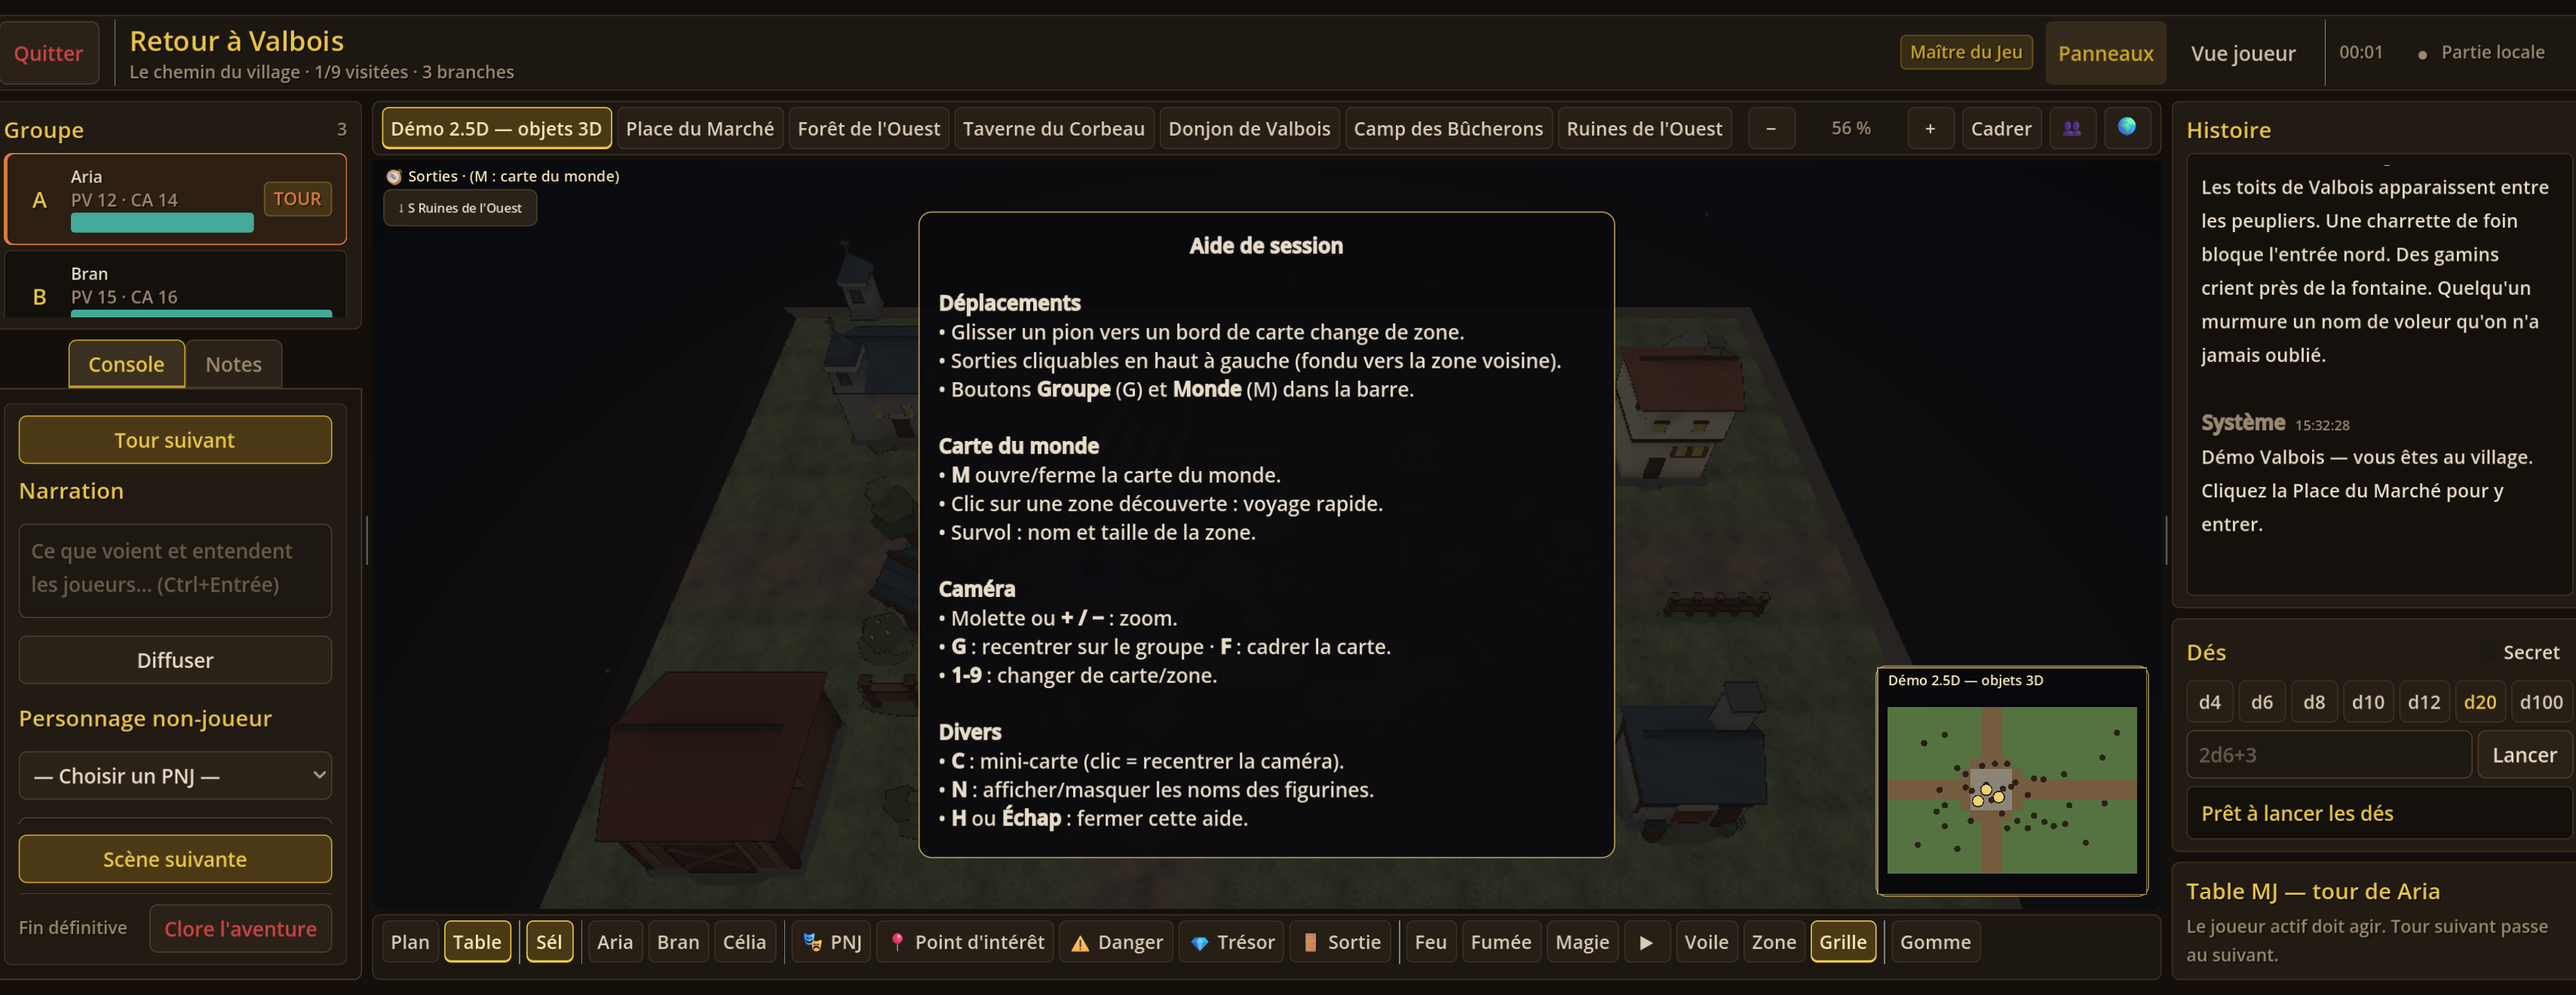
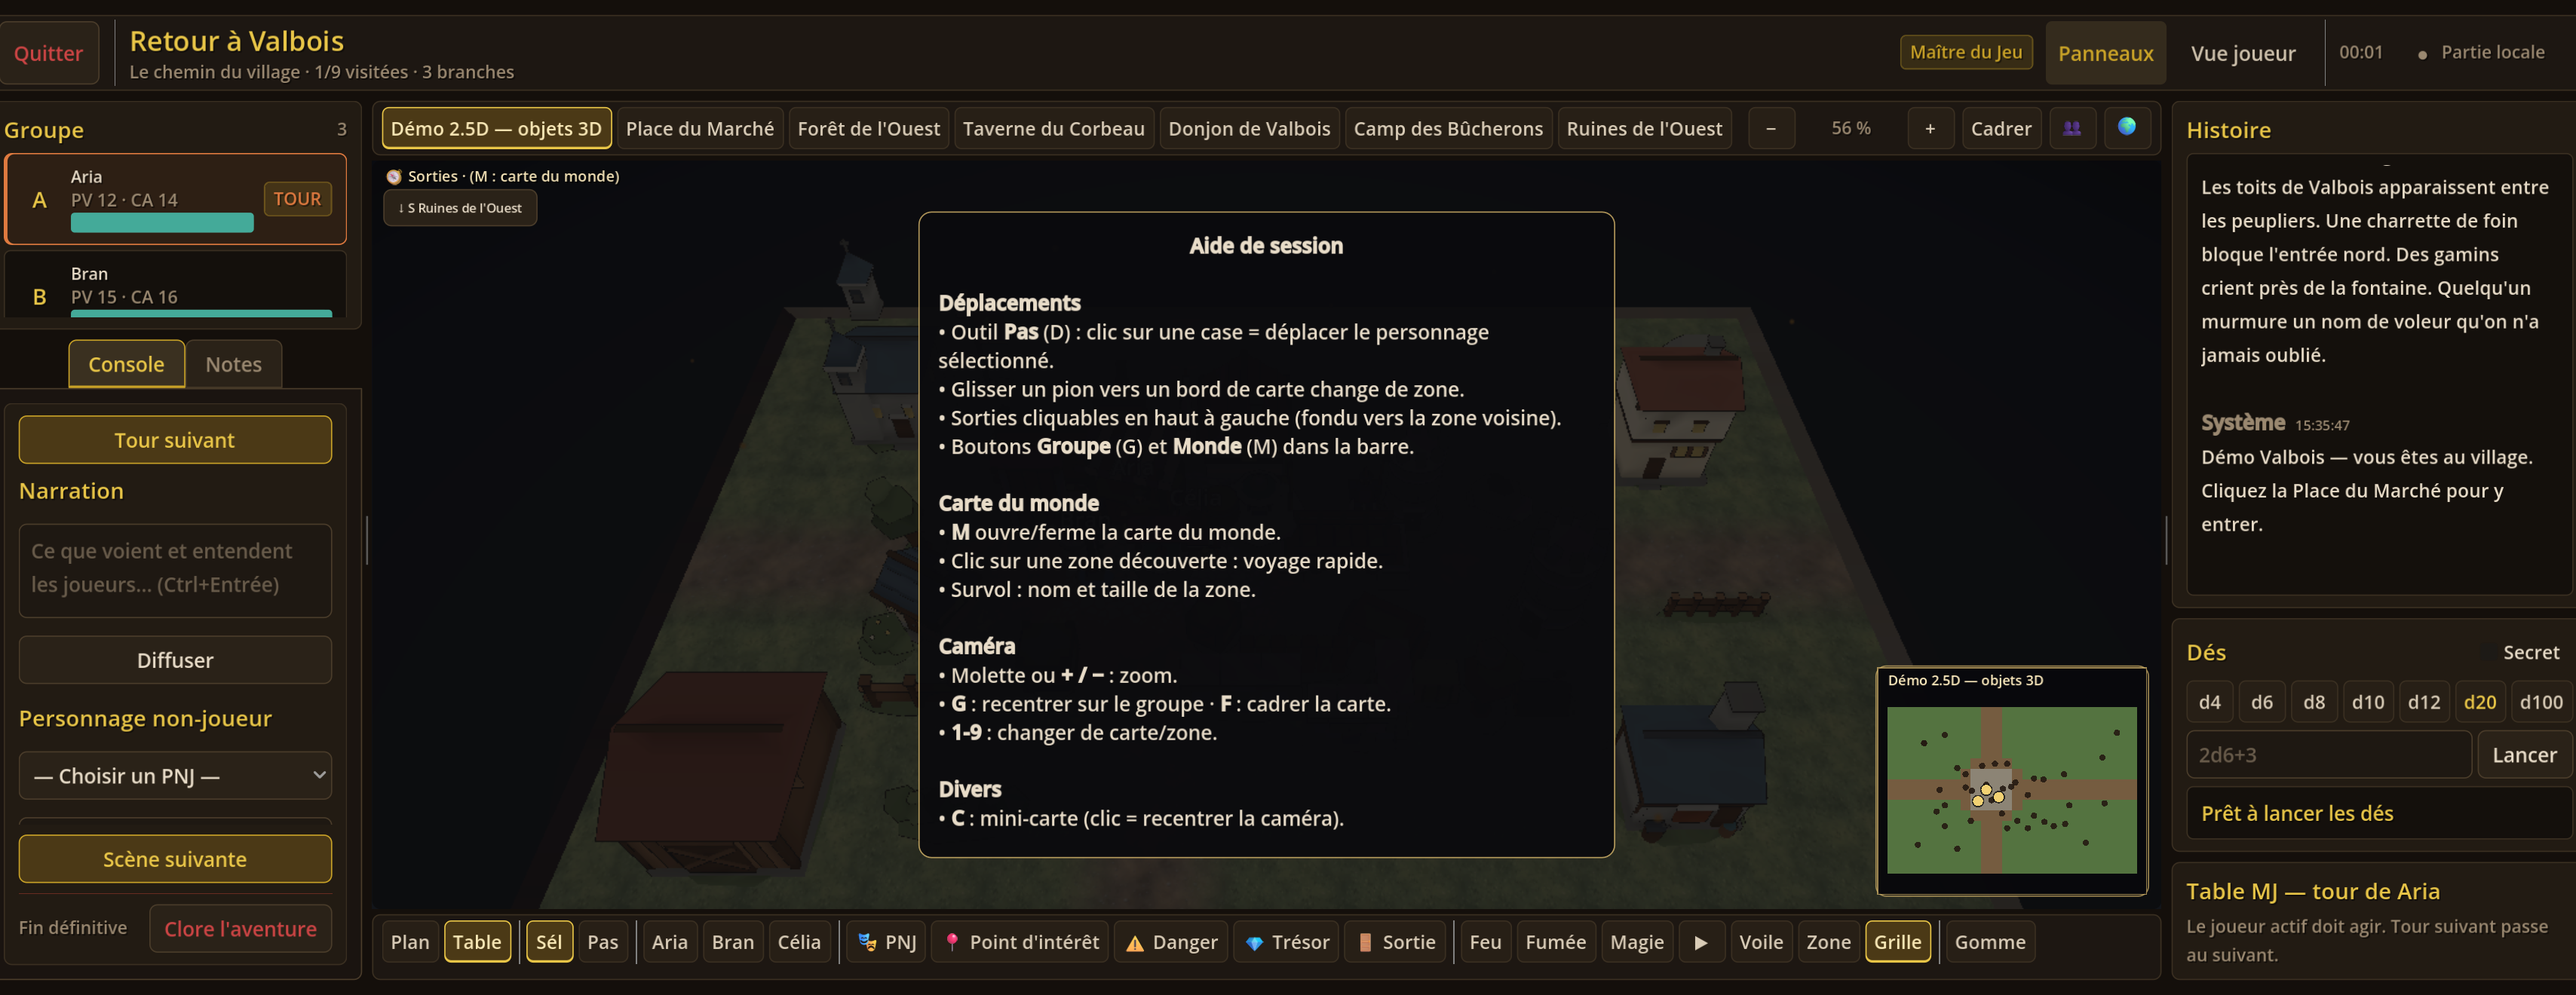
feat(session): outil Deplacer (clic vers une case) et touche D

Changed region(s): [[0.3413, 0.3106, 0.6206, 0.8386], [0.2172, 0.9008, 0.7758, 0.9939]]

diff --git a/docs/GUIDE_CARTE_25D.md b/docs/GUIDE_CARTE_25D.md
@@ -86,6 +86,7 @@ palette Valbois. Voir [BLENDER_PIPELINE.md](./BLENDER_PIPELINE.md).
 - **N** affiche/masque les noms flottants ; **C** affiche/masque la **mini-carte** (clic = recentrer la caméra).
 - **+ / −** zooment ; **1-9** bascule entre les cartes/onglets.
 - **H** ouvre l'**aide des raccourcis** de session (Échap pour fermer).
+- **D** ou bouton **Pas** : outil Déplacer — clique une case pour y déplacer le personnage sélectionné (ou actif).
 - Glisse un pion vers un **bord** de carte pour passer dans la zone voisine :
   fondu noir + nom de la zone, et **« Nouvelle zone découverte »** à la première
   visite. Les **sorties** de la zone sont aussi cliquables en haut à gauche.
